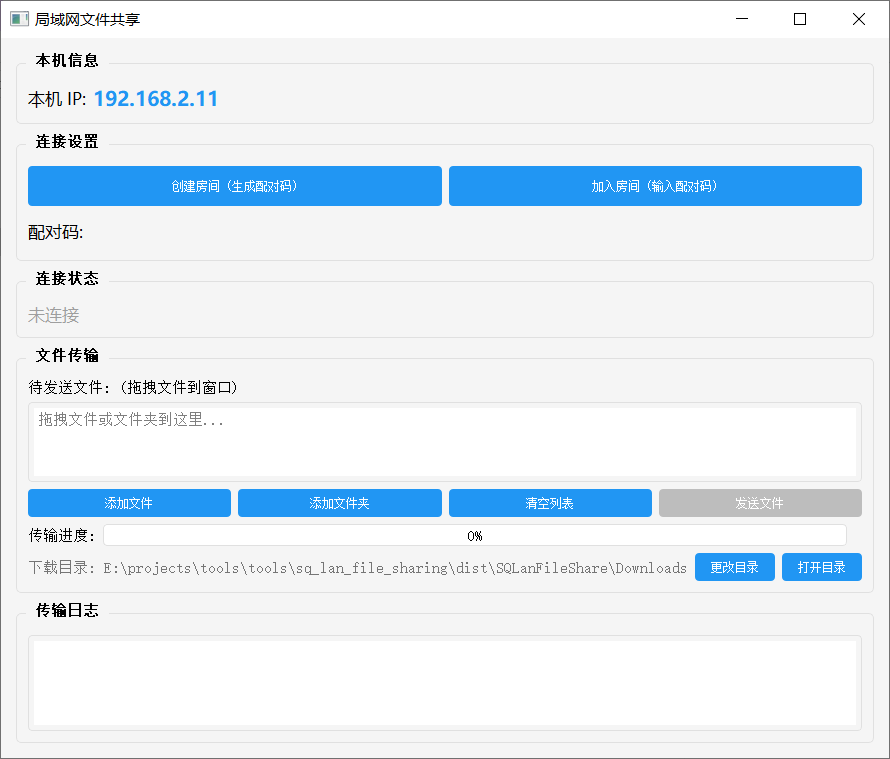
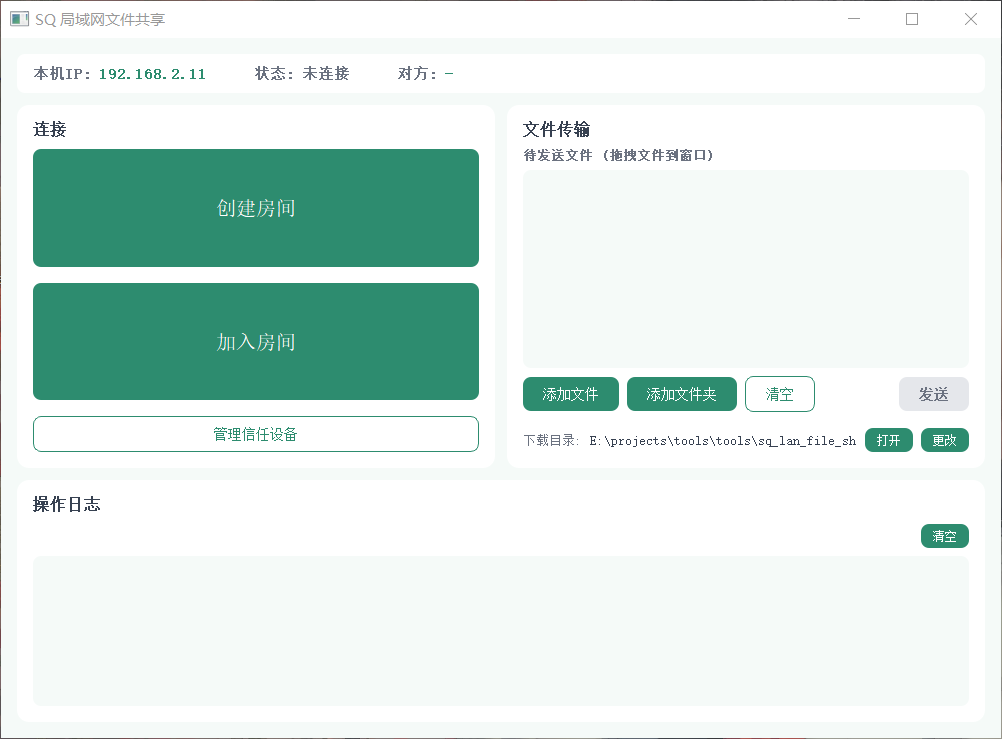
文档更新

diff --git a/README.md b/README.md
@@ -1,88 +1,113 @@
-# SQ 局域网文件共享工具
+# SQ 局域网文件共享
 
-一个简单易用的局域网文件共享工具，支持在局域网内快速传输文件和文件夹。
+局域网内高速文件传输工具，支持多文件并发传输、断点续传、设备信任管理。
 
 ![程序截图](screenshot.png)
 
 ## 功能特性
 
-- **设备发现**：自动发现局域网内的其他设备
-- **配对验证**：通过6位配对码进行安全配对
-- **文件传输**：支持发送单个文件或整个文件夹
-- **断点续传**：支持传输中断后的断点续传
-- **设备信任**：信任设备管理，免配对快速连接
-- **进度显示**：实时显示传输进度
+- **局域网设备发现** — UDP 广播自动发现同网段设备，也可手动输入 IP 连接
+- **6 位配对码验证** — 首次连接需输入配对码，防止未授权访问
+- **多文件并发传输** — 滑动窗口协议 + 线程池并发，默认 2 个文件同时传输
+- **文件夹传输** — 自动打包为 ZIP 发送，保留目录结构
+- **断点续传** — 传输中断后自动保存进度，重连后从断点继续
+- **设备信任** — 配对成功后自动加入信任列表，下次免配对直连
+- **自动重连** — 意外断线自动尝试重连，无需重新配对
+- **实时进度** — 发送端聚合进度条，接收端每文件独立进度条
 
-## 技术栈
-
-- Python 3.x
-- PyQt5（GUI界面）
-- TCP/UDP 网络通信
-
-## 目录结构
-
-```
-sq_lan_file_sharing/
-├── main.py              # 程序入口
-├── config.py            # 配置管理
-├── file_handler.py      # 文件处理模块
-├── network/             # 网络模块
-│   ├── client.py        # 客户端
-│   ├── server.py        # 服务端
-│   ├── discovery.py     # 设备发现
-│   ├── protocol.py      # 通信协议
-│   └── reconnect.py     # 重连机制
-├── transfer/            # 传输模块
-│   ├── chunk_sender.py  # 分块发送
-│   ├── chunk_receiver.py# 分块接收
-│   └── state_manager.py # 状态管理
-├── trust/               # 信任管理
-│   └── device_manager.py
-├── ui/                  # 界面模块
-│   └── main_window.py   # 主窗口
-└── requirements.txt     # 依赖列表
-```
-
-## 安装与运行
+## 快速开始
 
 ### 环境要求
 
+- Windows 10 及以上
 - Python 3.8+
-- PyQt5
 
-### 安装依赖
+### 安装
 
 ```bash
 pip install -r requirements.txt
 ```
 
-### 运行程序
+### 运行
 
 ```bash
 python main.py
 ```
 
-### 打包为可执行文件
+### 打包
 
 ```bash
 pyinstaller build.spec
+# 或使用批处理脚本
+build.bat
 ```
 
-打包后的可执行文件位于 `dist` 目录下。
+输出：`dist/SQLanFileShare.exe`
 
-## 使用说明
+## 使用方法
 
-1. **启动程序**：在两台电脑上分别运行程序
-2. **发现设备**：程序会自动发现局域网内的其他设备
-3. **配对连接**：输入对方显示的6位配对码完成配对
-4. **传输文件**：选择文件或文件夹，点击发送
+### 方式一：创建房间
 
-## 配置说明
+1. 点击「创建房间」，获得 6 位配对码
+2. 将配对码告知对方
+3. 对方输入配对码连接，或通过局域网扫描自动发现房间
 
-- 默认端口：9527（TCP）
-- 发现端口：9528（UDP）
-- 缓冲区大小：64KB
-- 心跳间隔：10秒
+### 方式二：加入房间
+
+1. 点击「加入房间」，自动扫描局域网设备
+2. 点击扫描到的房间，输入配对码连接
+3. 也可手动输入 IP + 配对码连接
+
+### 传输文件
+
+- 拖拽文件/文件夹到窗口，或点击「添加文件」/「添加文件夹」
+- 点击「发送」开始传输
+- 传输完成后文件保存在下载目录中
+
+### 信任设备
+
+配对成功后设备自动加入信任列表。下次连接时无需配对码，直接自动连接。可在「管理信任设备」中移除。
+
+## 项目结构
+
+```
+sq_lan_file_sharing/
+├── main.py              # 入口：UI 模式选择、Windows 版本检查
+├── config.py            # 配置常量与加载
+├── file_handler.py      # 文件哈希、文件夹打包、临时文件管理
+├── utils.py             # 工具函数
+├── network/
+│   ├── protocol.py      # 二进制协议编解码
+│   ├── server.py        # TCP 服务器（接收端）
+│   ├── client.py        # TCP 客户端（发送端）
+│   ├── discovery.py     # UDP 广播发现
+│   └── reconnect.py     # 心跳管理与自动重连
+├── transfer/
+│   ├── session.py       # 传输会话协调（多文件并发）
+│   ├── chunk_sender.py  # 滑动窗口分块发送
+│   ├── chunk_receiver.py# 分块接收与组装
+│   └── state_manager.py # 断点续传状态持久化
+├── trust/
+│   └── device_manager.py# 设备身份与信任列表
+├── ui/
+│   ├── main_window.py   # PyQt5 主窗口
+│   ├── bridge.py        # Web UI 桥接
+│   └── web_window.py    # Web UI 窗口
+└── requirements.txt
+```
+
+## 技术参数
+
+| 参数 | 默认值 |
+|------|--------|
+| TCP 端口 | 9527 |
+| UDP 发现端口 | 9528 |
+| 分块大小 | 256 KB |
+| 滑动窗口 | 64 块 |
+| 并发文件数 | 2 |
+| 心跳间隔 | 10 秒 |
+| 心跳超时 | 60 秒（传输中 180 秒） |
+| 最大重连次数 | 10 次 |
 
 ## 许可证
 
